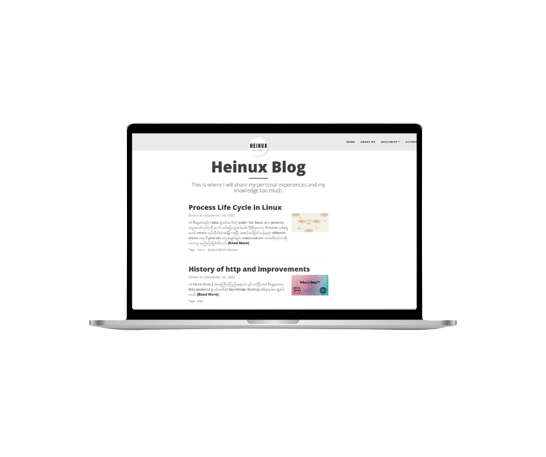
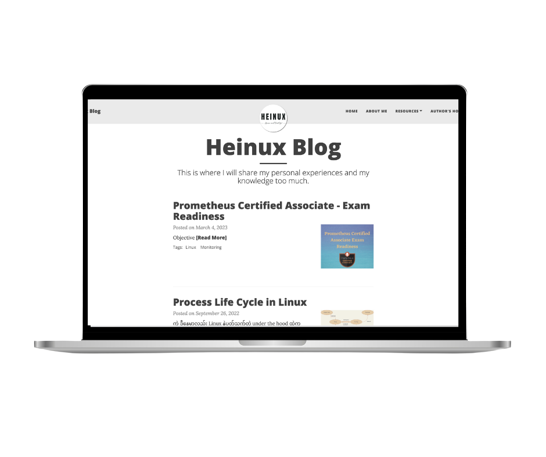
added one more project

Changed region(s): [[0.0623, 0.1838, 0.9341, 0.7965]]

diff --git a/src/components/Projects/Projects.js b/src/components/Projects/Projects.js
@@ -2,7 +2,8 @@ import React from "react";
 import { Container, Row, Col } from "react-bootstrap";
 import ProjectCard from "./ProjectCards";
 import Particle from "../Particle";
-import bitsOfCode from "../../Assets/Projects/blog.png";
+import blog from "../../Assets/Projects/blog.png";
+import tailwindblog from "../../Assets/Projects/next_tailwind_ss.png"
 
 function Projects() {
   return (
@@ -18,12 +19,22 @@ function Projects() {
         <Row style={{ justifyContent: "center", paddingBottom: "10px" }}>
           <Col md={4} className="project-card">
             <ProjectCard
-              imgPath={bitsOfCode}
-              isBlog={false}
+              imgPath={blog}
+              isBlog={true}
               title="Heinux Blog"
               description="My Personal blog Website built with Netlify, focused on DevOps, Cloud Computing, and Linux System Administration. I created my blog site using Beautiful Jekyll template."
               ghLink="https://github.com/heinhtetwin/heinux-blog"
               demoLink="https://blog.heinhtetwin.com"
+            />
+          </Col>
+          <Col md={4} className="project-card">
+            <ProjectCard
+              imgPath={tailwindblog}
+              isBlog={true}
+              title="Heinux Blog New Design"
+              description="A new Blog website built with Nextjs and tailwind CSS."
+              ghLink="https://github.com/heinhtetwin/tailwind-css-blog"
+              demoLink="https://heinuxblog.heinhtetwin.com"
             />
           </Col>
         </Row>
